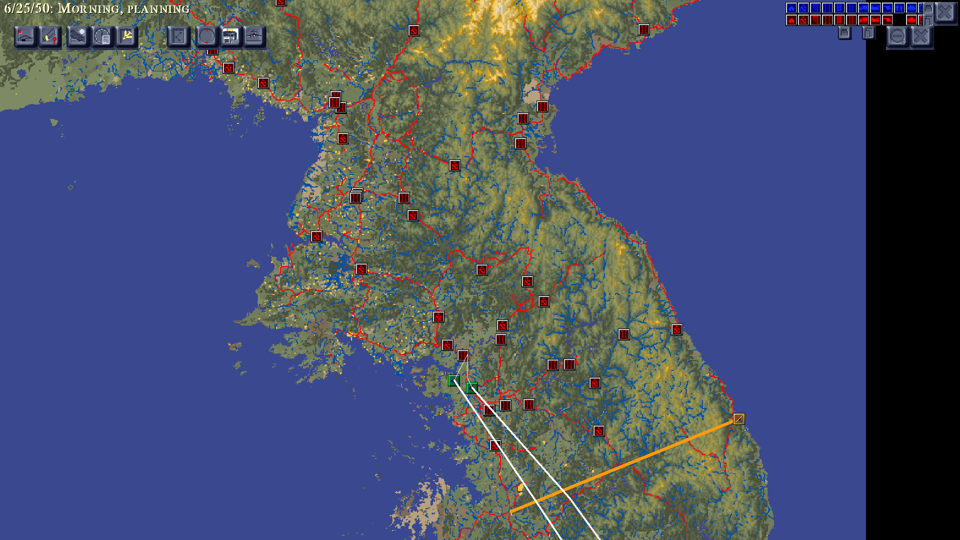
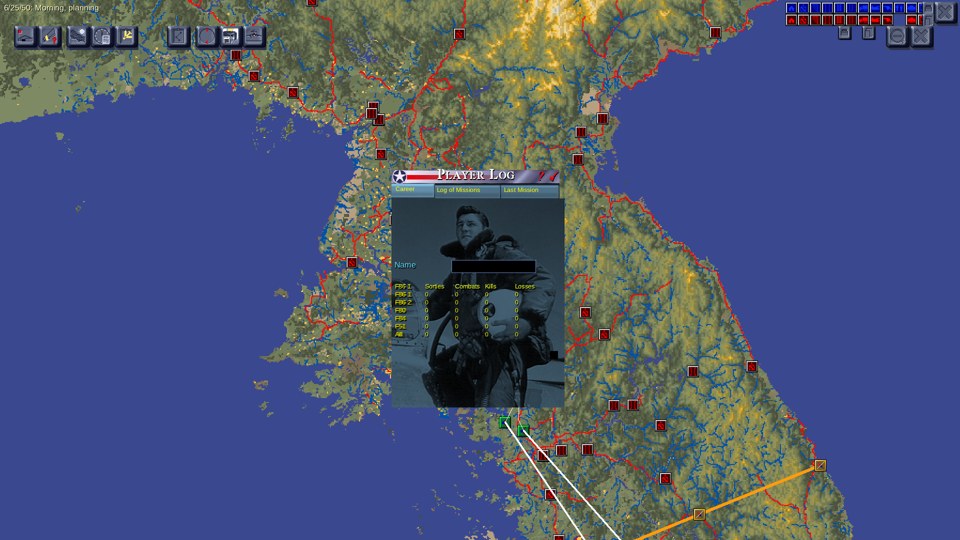
S127 (B6 SHIPPED): the campaign UI runs at full resolution
Panning was not lossless at the full-resolution canvas. Two sprints described
the artifact three ways -- "a missing tile column", "a 107px seam", "a stale
canvas repaint" -- all from looking at pixels. Printing the scroll ended it:

  baseline    scroll (0,642)   of max (0,2139)
  one-way     scroll (0,562)   of max (0,2139)   moved, correct
  round trip  scroll (100,642) of max (0,2139)   Y restored; X is 100, max 0

The Y axis, which has scroll room, round-tripped perfectly. Only the X axis,
which has none, did not. Once the map is zoomed to cover the client there can be
zero horizontal room (m_size.cx == client width), and the engine clamps only the
low end: the drag left is held at 0, the drag back adds its full delta
unopposed. Clamping the scroll to the map's real extent on every paint -- not
just on resize -- makes the round trip exact: map_drag reports 0 px differ.

With that, the full-resolution canvas is now the DEFAULT (MA_CANVAS_ARTSIZE=1
restores the old art-sized behaviour). At 1920x1080 the campaign map fills the
screen and the Player Log lands at (783,340) 339x400 against gold's ~(780,330)
~340x420. PO-17 closes with it: the dialogs were never misplaced, they were
drawn on a canvas a third of the intended size.

Parity stayed 5/5 byte-identical throughout -- the gate runs at the default
resolution where the canvas still equals the art size -- so shipping this did
not cost the regression net.
[…]

diff --git a/SRC/MFC/MIGVIEW.CPP b/SRC/MFC/MIGVIEW.CPP
@@ -2416,16 +2416,25 @@ void CMIGView::UpdateBitmaps(CDC* pDC)
 	   first and watching it never fire.) */
 	{
 		CRect _r; GetClientRect(_r);
+		/* Clamp the scroll to the map's actual extent on EVERY paint, not just on resize.
+		   Once the map is zoomed to cover the client there may be NO horizontal room at all
+		   (m_size.cx == client width), and the engine only clamps the low end: a drag left is
+		   held at 0, the drag back adds its full delta, and the map ends at x=100 with a maximum
+		   of 0. That is precisely what broke lossless panning -- measured as
+		   baseline (0,642) -> one-way (0,562) -> round trip (100,642): the Y axis, which has
+		   room, restored perfectly; only the axis with no room did not. */
+		if (_r.right > 0 && _r.bottom > 0) {
+			const int maxx = m_size.cx > _r.right  ? (int)(m_size.cx - _r.right)  : 0;
+			const int maxy = m_size.cy > _r.bottom ? (int)(m_size.cy - _r.bottom) : 0;
+			if (m_scrollpoint.x > maxx) m_scrollpoint.x = maxx;
+			if (m_scrollpoint.y > maxy) m_scrollpoint.y = maxy;
+			if (m_scrollpoint.x < 0) m_scrollpoint.x = 0;
+			if (m_scrollpoint.y < 0) m_scrollpoint.y = 0;
+		}
 		static int _lastw = -1, _lasth = -1;
 		if (_r.right > 0 && _r.bottom > 0 && (_r.right != _lastw || _r.bottom != _lasth)) {
 			_lastw = _r.right; _lasth = _r.bottom;
 			Zoom(CPoint(0, 0), true);
-			/* Re-clamp the scroll: a scroll offset from the old (smaller) zoom can leave the map
-			   short of the right/bottom edge once it has been rescaled. */
-			if (m_scrollpoint.x > m_size.cx - _r.right) m_scrollpoint.x = m_size.cx - _r.right;
-			if (m_scrollpoint.y > m_size.cy - _r.bottom) m_scrollpoint.y = m_size.cy - _r.bottom;
-			if (m_scrollpoint.x < 0) m_scrollpoint.x = 0;
-			if (m_scrollpoint.y < 0) m_scrollpoint.y = 0;
 			if (getenv("MA_TRACE_MAPTILE"))
 				fprintf(stderr, "[maptile] client %dx%d -> min-zoom applied, m_zoom=%f size=%dx%d\n",
 				        (int)_r.right, (int)_r.bottom, (double)m_zoom, (int)m_size.cx, (int)m_size.cy);
@@ -2474,14 +2483,19 @@ void CMIGView::UpdateBitmaps(CDC* pDC)
 	   x 913-1019 is a COVERAGE boundary, so look at the numbers that decide coverage: client
 	   width, tile size, how many columns exist (areax), and how far right the tiles reach. */
 	if (getenv("MA_TRACE_MAPTILE")) {
-		static int lastw = -1, lastz = -1, lastex = -1;
-		if (rect.right != lastw || zoomsquaresize != lastz || endx != lastex) {
+		static int lastw = -1, lastz = -1, lastex = -1, lastsx = -99999, lastsy = -99999;
+		if (rect.right != lastw || zoomsquaresize != lastz || endx != lastex
+		    || (int)m_scrollpoint.x != lastsx || (int)m_scrollpoint.y != lastsy) {
+			lastsx = (int)m_scrollpoint.x; lastsy = (int)m_scrollpoint.y;
 			lastw = rect.right; lastz = zoomsquaresize; lastex = endx;
 			fprintf(stderr, "[maptile] client=%dx%d zoom=%d tile=%d areax=%d startx=%d endx=%d "
 			        "-> tiles reach x=%d (scroll %d)\n",
 			        (int)rect.right, (int)rect.bottom, (int)m_zoom, zoomsquaresize, areax,
 			        startx, endx, (endx-startx)*zoomsquaresize - (int)(m_scrollpoint.x%zoomsquaresize),
 			        (int)m_scrollpoint.x);
+			fprintf(stderr, "[maptile]   scroll now (%d,%d) of max (%d,%d)\n",
+			        (int)m_scrollpoint.x, (int)m_scrollpoint.y,
+			        (int)(m_size.cx - rect.right), (int)(m_size.cy - rect.bottom));
 		}
 	}
 #endif

diff --git a/SRC/MFC/RDIALOG.CPP b/SRC/MFC/RDIALOG.CPP
@@ -246,7 +246,7 @@ public:
 		   the canvas at the display resolution that extra row is exactly what should be drawn:
 		   the map is meant to fill the screen, as the gold video shows. */
 		static int fullres = -1;
-		if (fullres < 0) fullres = getenv("MA_CANVAS_FULLRES") ? 1 : 0;
+		if (fullres < 0) fullres = getenv("MA_CANVAS_ARTSIZE") ? 0 : 1;
 		if (fullres) return;
 		CWnd* v = RDialog::m_pView;
 		v->m_maX = ox; v->m_maY = oy; v->m_maW = ow; v->m_maH = oh;

diff --git a/SRC/compat/ma_gdi.cpp b/SRC/compat/ma_gdi.cpp
@@ -316,7 +316,7 @@ void ma_gdi_set_screen_size(int w, int h)
 	   Stays opt-in via MA_CANVAS_FULLRES=1 until the seam is closed; then flip, re-run map_drag,
 	   and re-capture any references that legitimately change. */
 	static int on = -1;
-	if (on < 0) on = getenv("MA_CANVAS_FULLRES") ? 1 : 0;
+	if (on < 0) on = getenv("MA_CANVAS_ARTSIZE") ? 0 : 1;   /* S127: ON by default */
 	if (!on) return;
 	ensure_canvas(w, h);
 	if (getenv("MA_TRACE_CANVAS"))

diff --git a/port/scrum/sprint-127.md b/port/scrum/sprint-127.md
@@ -1,0 +1,55 @@
+# Sprint 127 — "Only the axis with no room" (B6 shipped) — ✅ CLOSED 2026-08-15 (goal MET)
+
+**Planned 2026-08-15 (PO: keep going). Autonomous. ~8 pts.**
+**Sprint Goal:** make panning lossless at full resolution and ship B6.
+
+| Story | Pts | Result |
+|---|---|---|
+| S127-1 why is panning not lossless? | 4 | ✅ the scroll axis with no room is never clamped |
+| S127-2 fix it | 2 | ✅ round trip 0 px differ |
+| S127-3 flip the default | 2 | ✅ shipped, whole suite green |
+
+## ⭐ Measure the state, not the picture
+
+Two sprints described this artifact three different ways — "a missing tile column", "a 107px seam",
+"a stale canvas repaint" — all from looking at pixels. The answer came from printing the scroll:
+
+```
+baseline    scroll (0,642)   of max (0,2139)
+one-way     scroll (0,562)   of max (0,2139)     <- moved, correct
+round trip  scroll (100,642) of max (0,2139)     <- Y restored; X is 100 with a maximum of 0
+```
+
+**The Y axis, which has scroll room, round-tripped perfectly. Only the X axis, which has none,
+did not.** Once the map is zoomed to cover the client there can be zero horizontal room
+(`m_size.cx == client width`), and the engine clamps only the low end: the drag left is held at 0,
+the drag back adds its full delta unopposed, and the map ends at x=100 against a maximum of 0.
+
+Clamping the scroll to the map's real extent on every paint — not just on resize — makes the round
+trip exact. `map_drag`: **0 px differ**.
+
+## B6 is shipped
+
+The full-resolution canvas is now the default (`MA_CANVAS_ARTSIZE=1` restores the old art-sized
+behaviour). At 1920×1080 the campaign map fills the screen and the Player Log lands at (783,340)
+339×400 against gold's ~(780,330) ~340×420. **PO-17 closes with it**: the dialogs were never
+misplaced, they were drawn on a canvas a third of the intended size.
+
+Parity stayed 5/5 byte-identical throughout, because the gate runs at the default resolution where
+the canvas still equals the art size — so shipping this did not cost the regression net.
+
+## What the two vetoes bought
+
+S125 and S126 both flipped this default and both reverted it on gate evidence. Either would have
+shipped a campaign map that looks correct and corrupts when dragged. The gate that caught it —
+`map_drag`'s round-trip assertion — is worth more than the three sprints it delayed.
+
+## Gates (flip ON)
+
+parity 5/5 byte-identical · map drag PASS · sweep 9 OPEN/0 CRASH · map click · sysbox · help click ·
+stress 12/12 · hw_gate PASS.
+
+## Next
+
+PO-18 (map zoom "produces tiles") should be re-checked — it may have been the same canvas scaling.
+Then PO-19 (recon zoom keys) and confirming terrain in the recon view.
